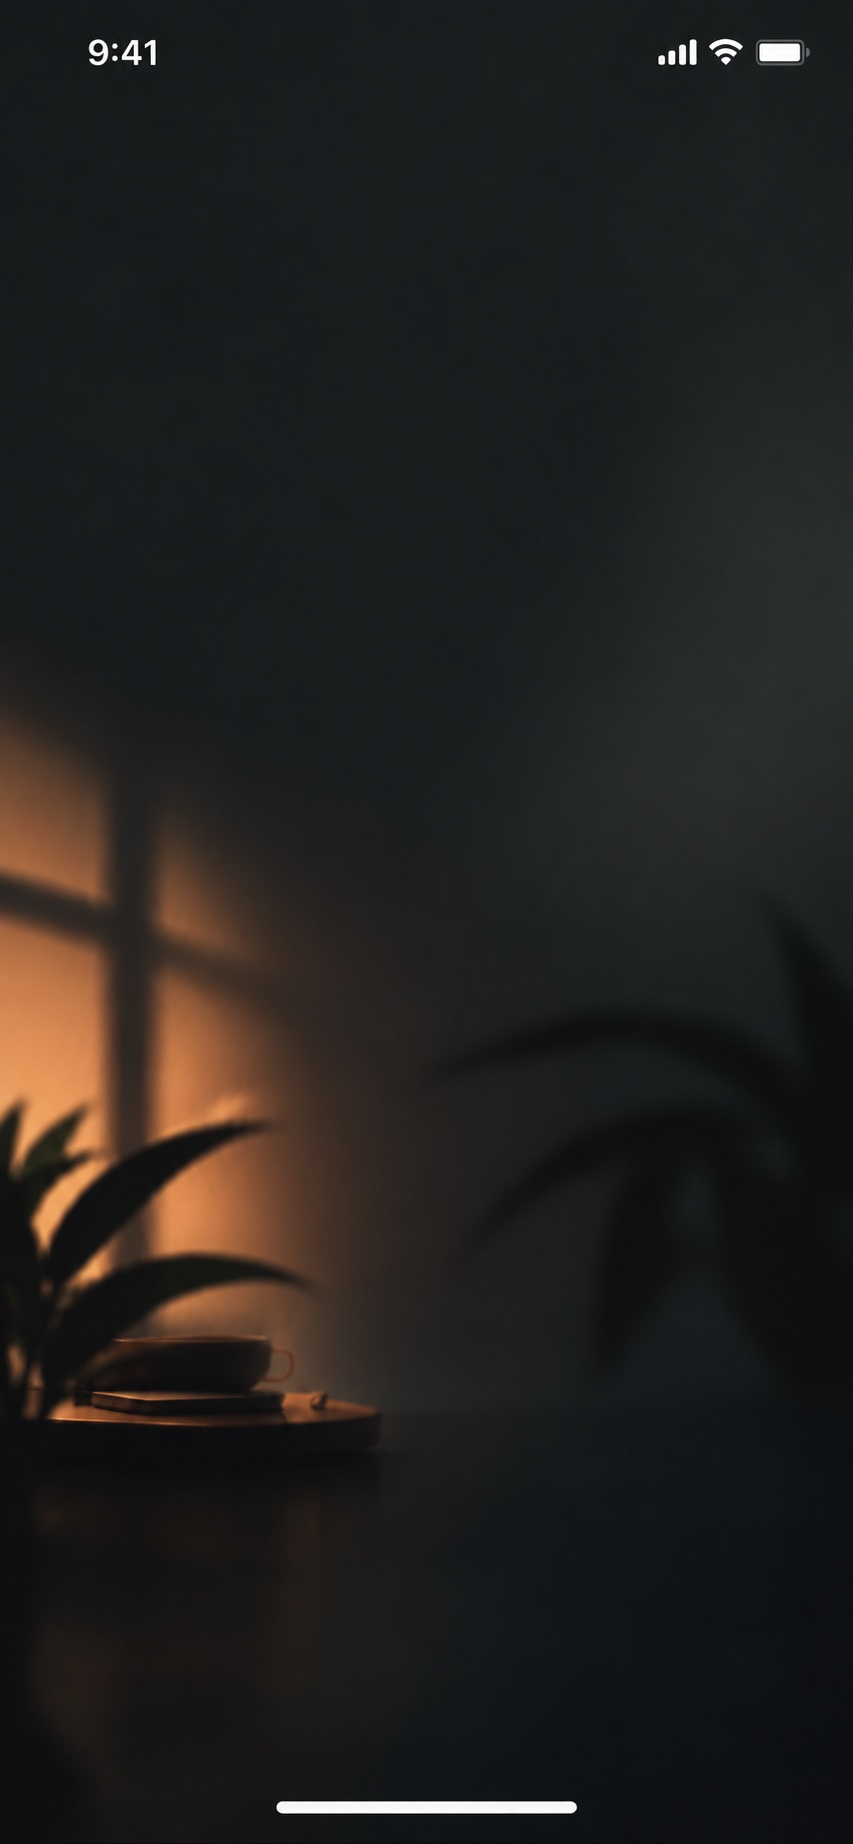
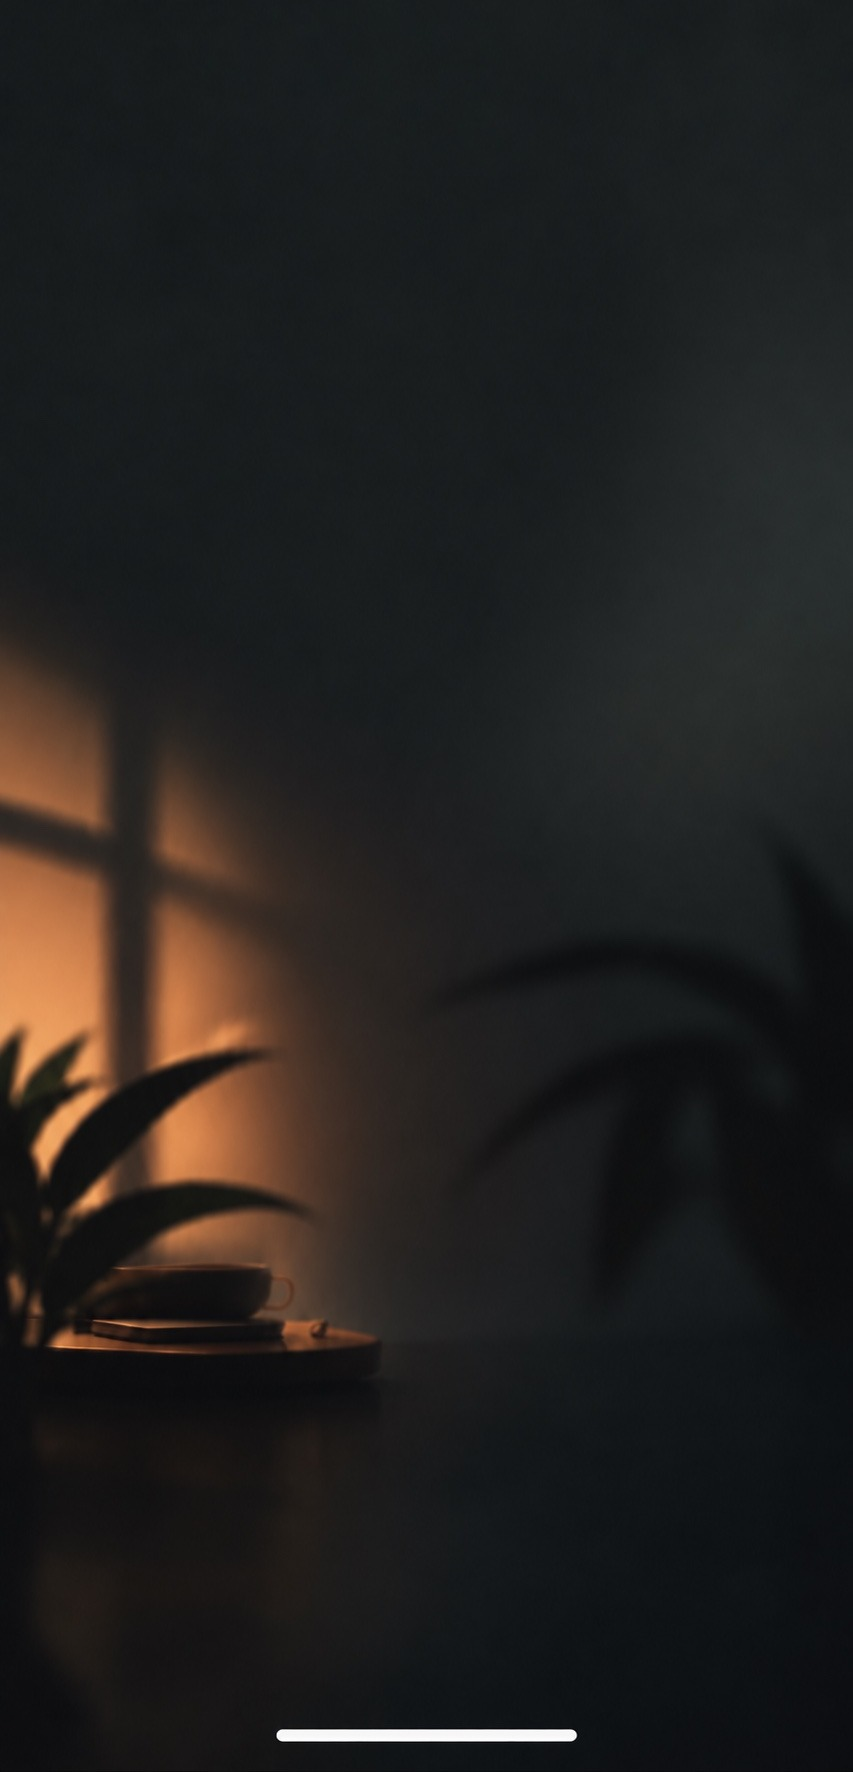
Refine Welcome layout and clean the wallpaper.
Remove the Welcome logo, lift the mid-screen copy and Come in button, and crop device status-bar chrome out of the welcome wallpaper.

Changed region(s): [[0.0, 0.3414, 0.4572, 0.776], [0.7925, 0.0, 0.9449, 0.0621], [0.0914, 0.0, 0.1829, 0.031]]

diff --git a/index.html b/index.html
@@ -14,20 +14,16 @@
 #freedomWelcome{
   position:fixed;inset:0;z-index:9950;box-sizing:border-box;
   display:flex;flex-direction:column;align-items:center;justify-content:flex-start;
-  padding:calc(92px + env(safe-area-inset-top,0px)) 28px calc(52px + env(safe-area-inset-bottom,0px));
+  padding:calc(28px + env(safe-area-inset-top,0px)) 28px calc(52px + env(safe-area-inset-bottom,0px));
   background:#0b0c0e url("./welcome-wallpaper.jpg") center center / cover no-repeat;
   text-align:center;-webkit-tap-highlight-color:transparent;
 }
 #freedomWelcome[hidden]{display:none!important}
-.freedom-welcome-logo{
-  position:absolute;left:0;right:0;top:calc(92px + env(safe-area-inset-top,0px));
-  margin:0;
-  font-family:"Caveat","Segoe Print","Bradley Hand",cursive;
-  font-size:clamp(48px,12vw,64px);font-weight:500;color:#efcbaa;line-height:1;
-}
 .freedom-welcome-inner{
   display:flex;flex-direction:column;align-items:center;justify-content:center;
   width:100%;max-width:22rem;flex:1 1 auto;
+  /* Lift the mid-screen copy/button group slightly above true centre */
+  transform:translateY(-7vh);
 }
 .freedom-welcome-headline{
   margin:0 0 14px;font-size:25px;line-height:1.1;letter-spacing:-.035em;font-weight:400;
@@ -1768,7 +1764,6 @@ body.journey-dragging .loan-card:not(.is-dragging),body.goals-dragging .goal-car
   <div class="freedom-splash-logo">Freedom</div>
 </div>
 <div id="freedomWelcome" class="freedom-welcome" hidden>
-  <div class="freedom-welcome-logo">Freedom</div>
   <div class="freedom-welcome-inner">
     <h1 class="freedom-welcome-headline">Your future.<br>A little more yours.</h1>
     <p class="freedom-welcome-support">A place to see what you're moving away from and what you're moving towards.</p>
@@ -4835,7 +4830,7 @@ if ("serviceWorker" in navigator) {
 
     try {
       registration = await navigator.serviceWorker.register(
-        "./service-worker.js?v=1882",
+        "./service-worker.js?v=1883",
         { updateViaCache: "none" }
       );
 

diff --git a/service-worker.js b/service-worker.js
@@ -1,5 +1,5 @@
 /* Freedom at 50 — wallpaper cache restored (render never gated on preload) */
-const CACHE_NAME = "freedom-at-50-v1.8.6.19";
+const CACHE_NAME = "freedom-at-50-v1.8.6.20";
 const WALLPAPER_CACHE = "freedom-wallpapers-v1";
 const WALLPAPERS = [
   "./overview-wallpaper.png",
